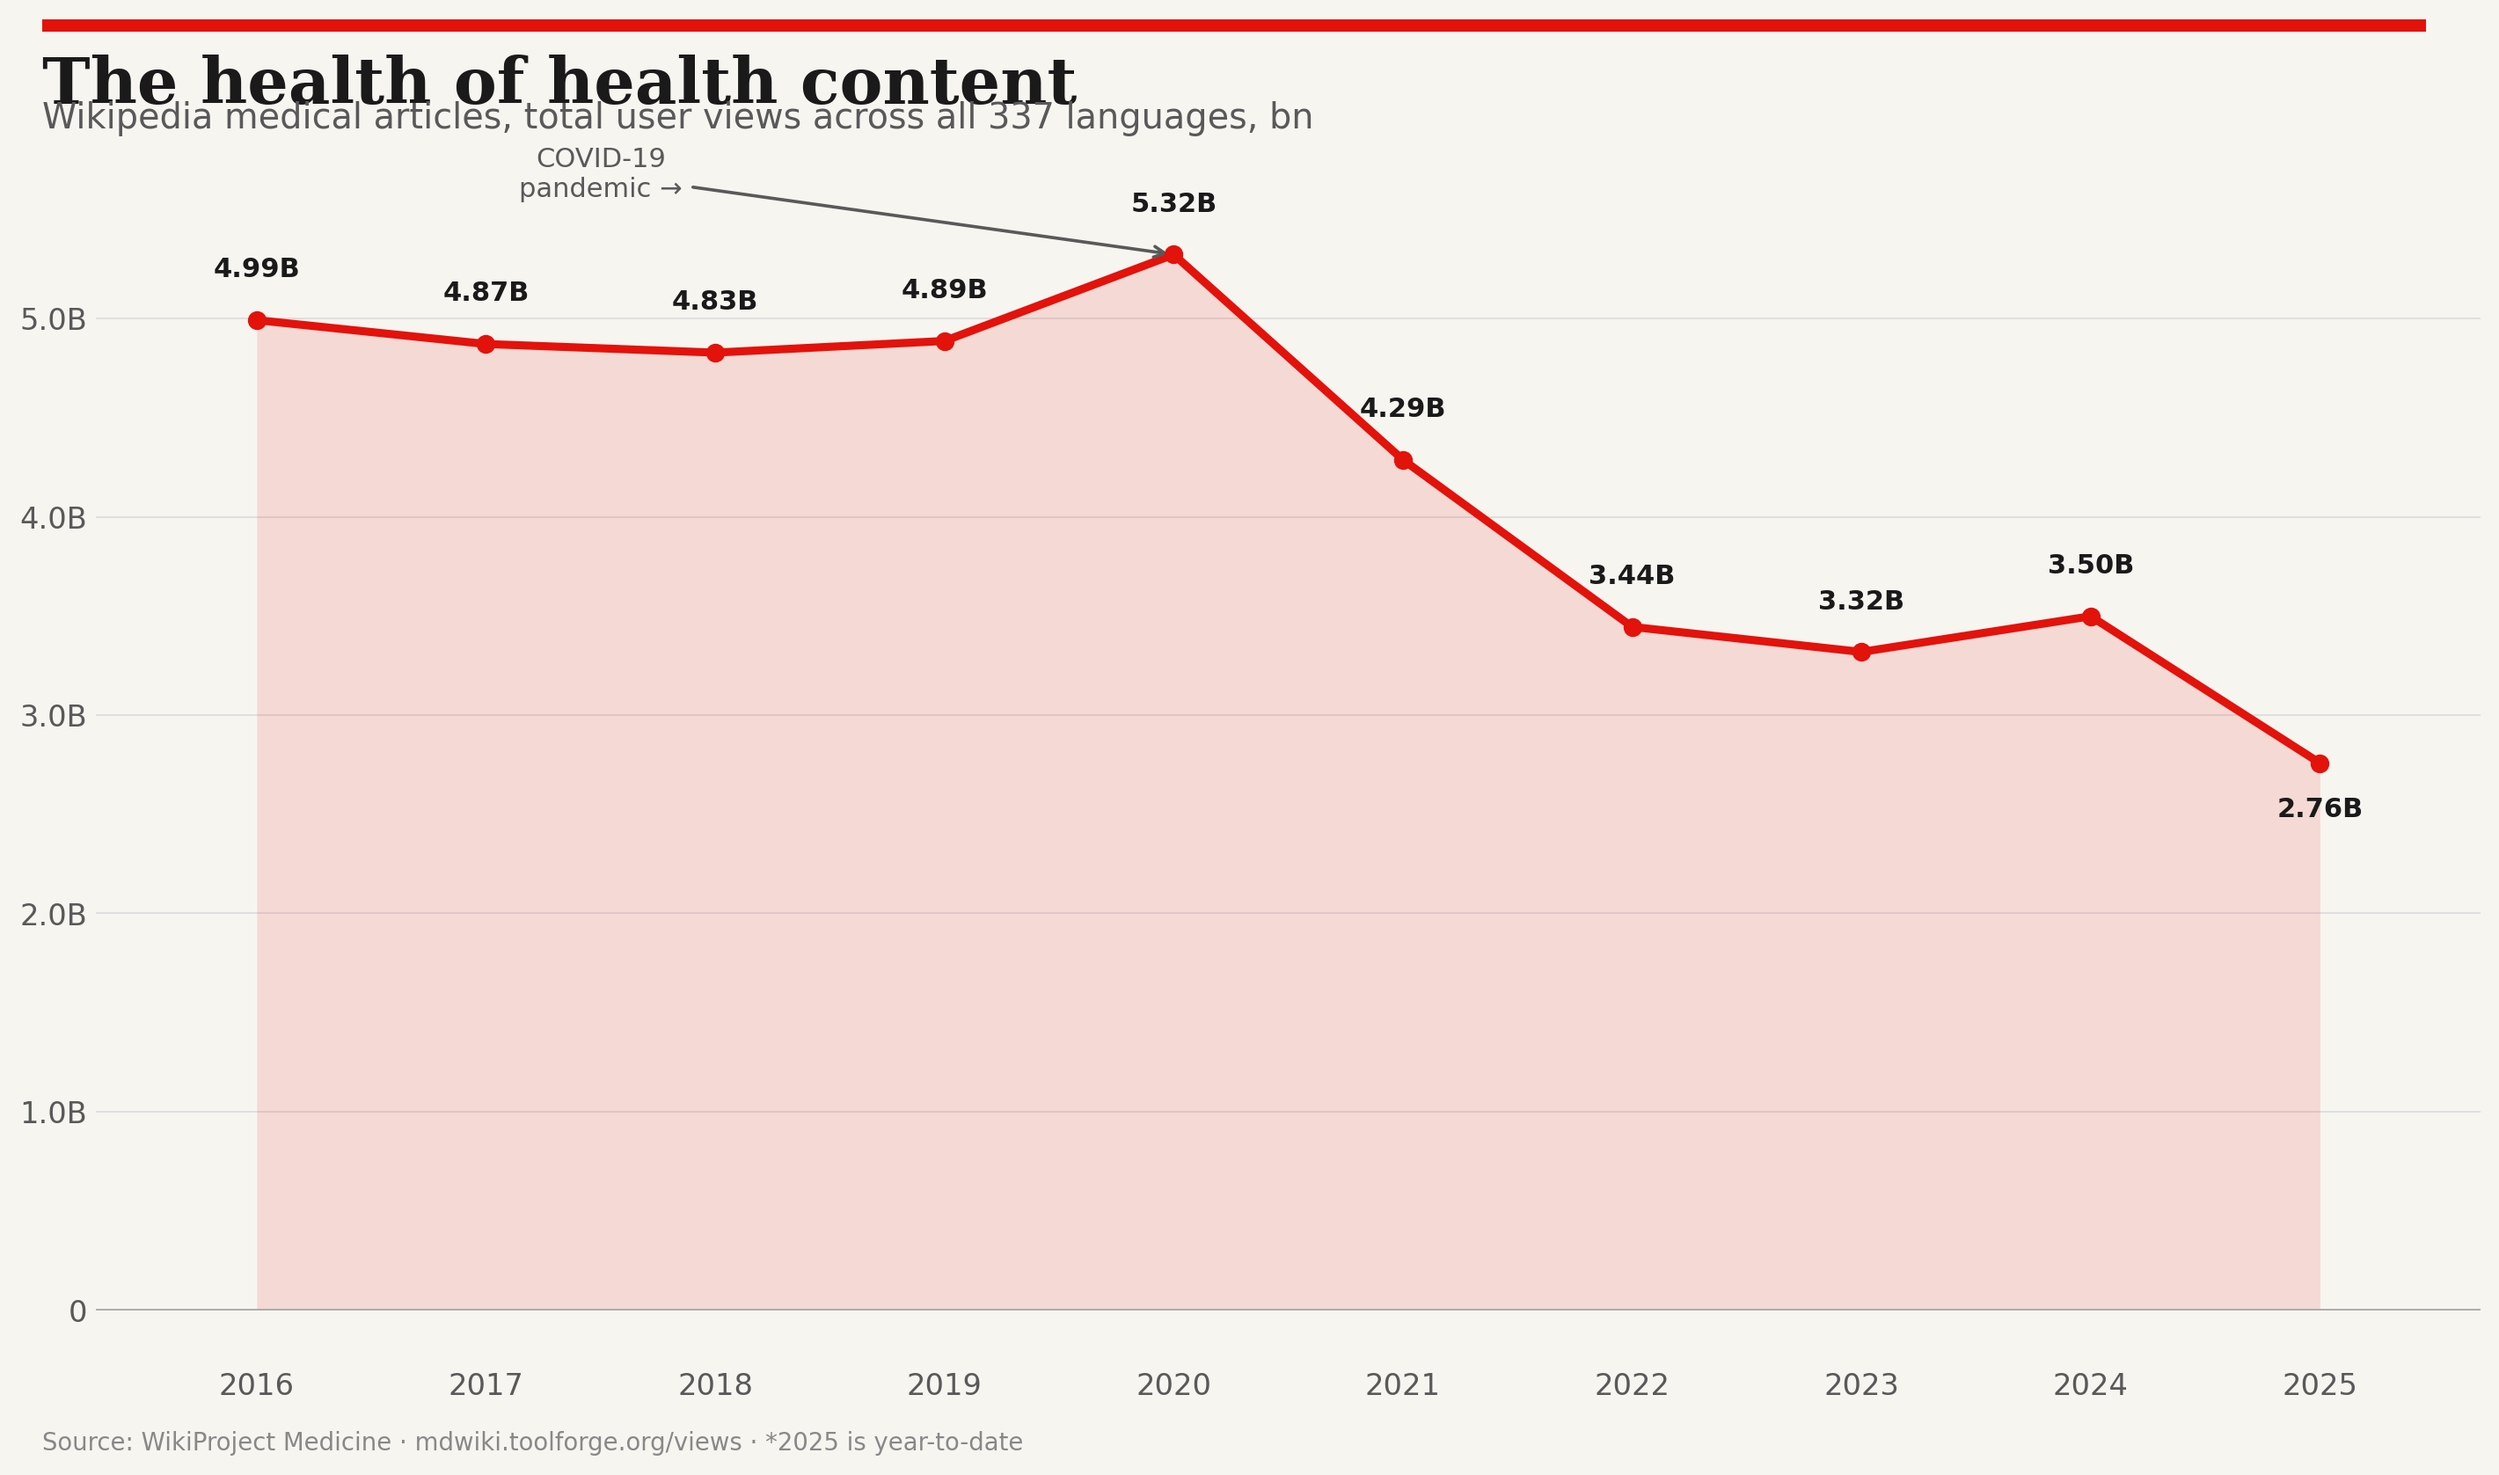
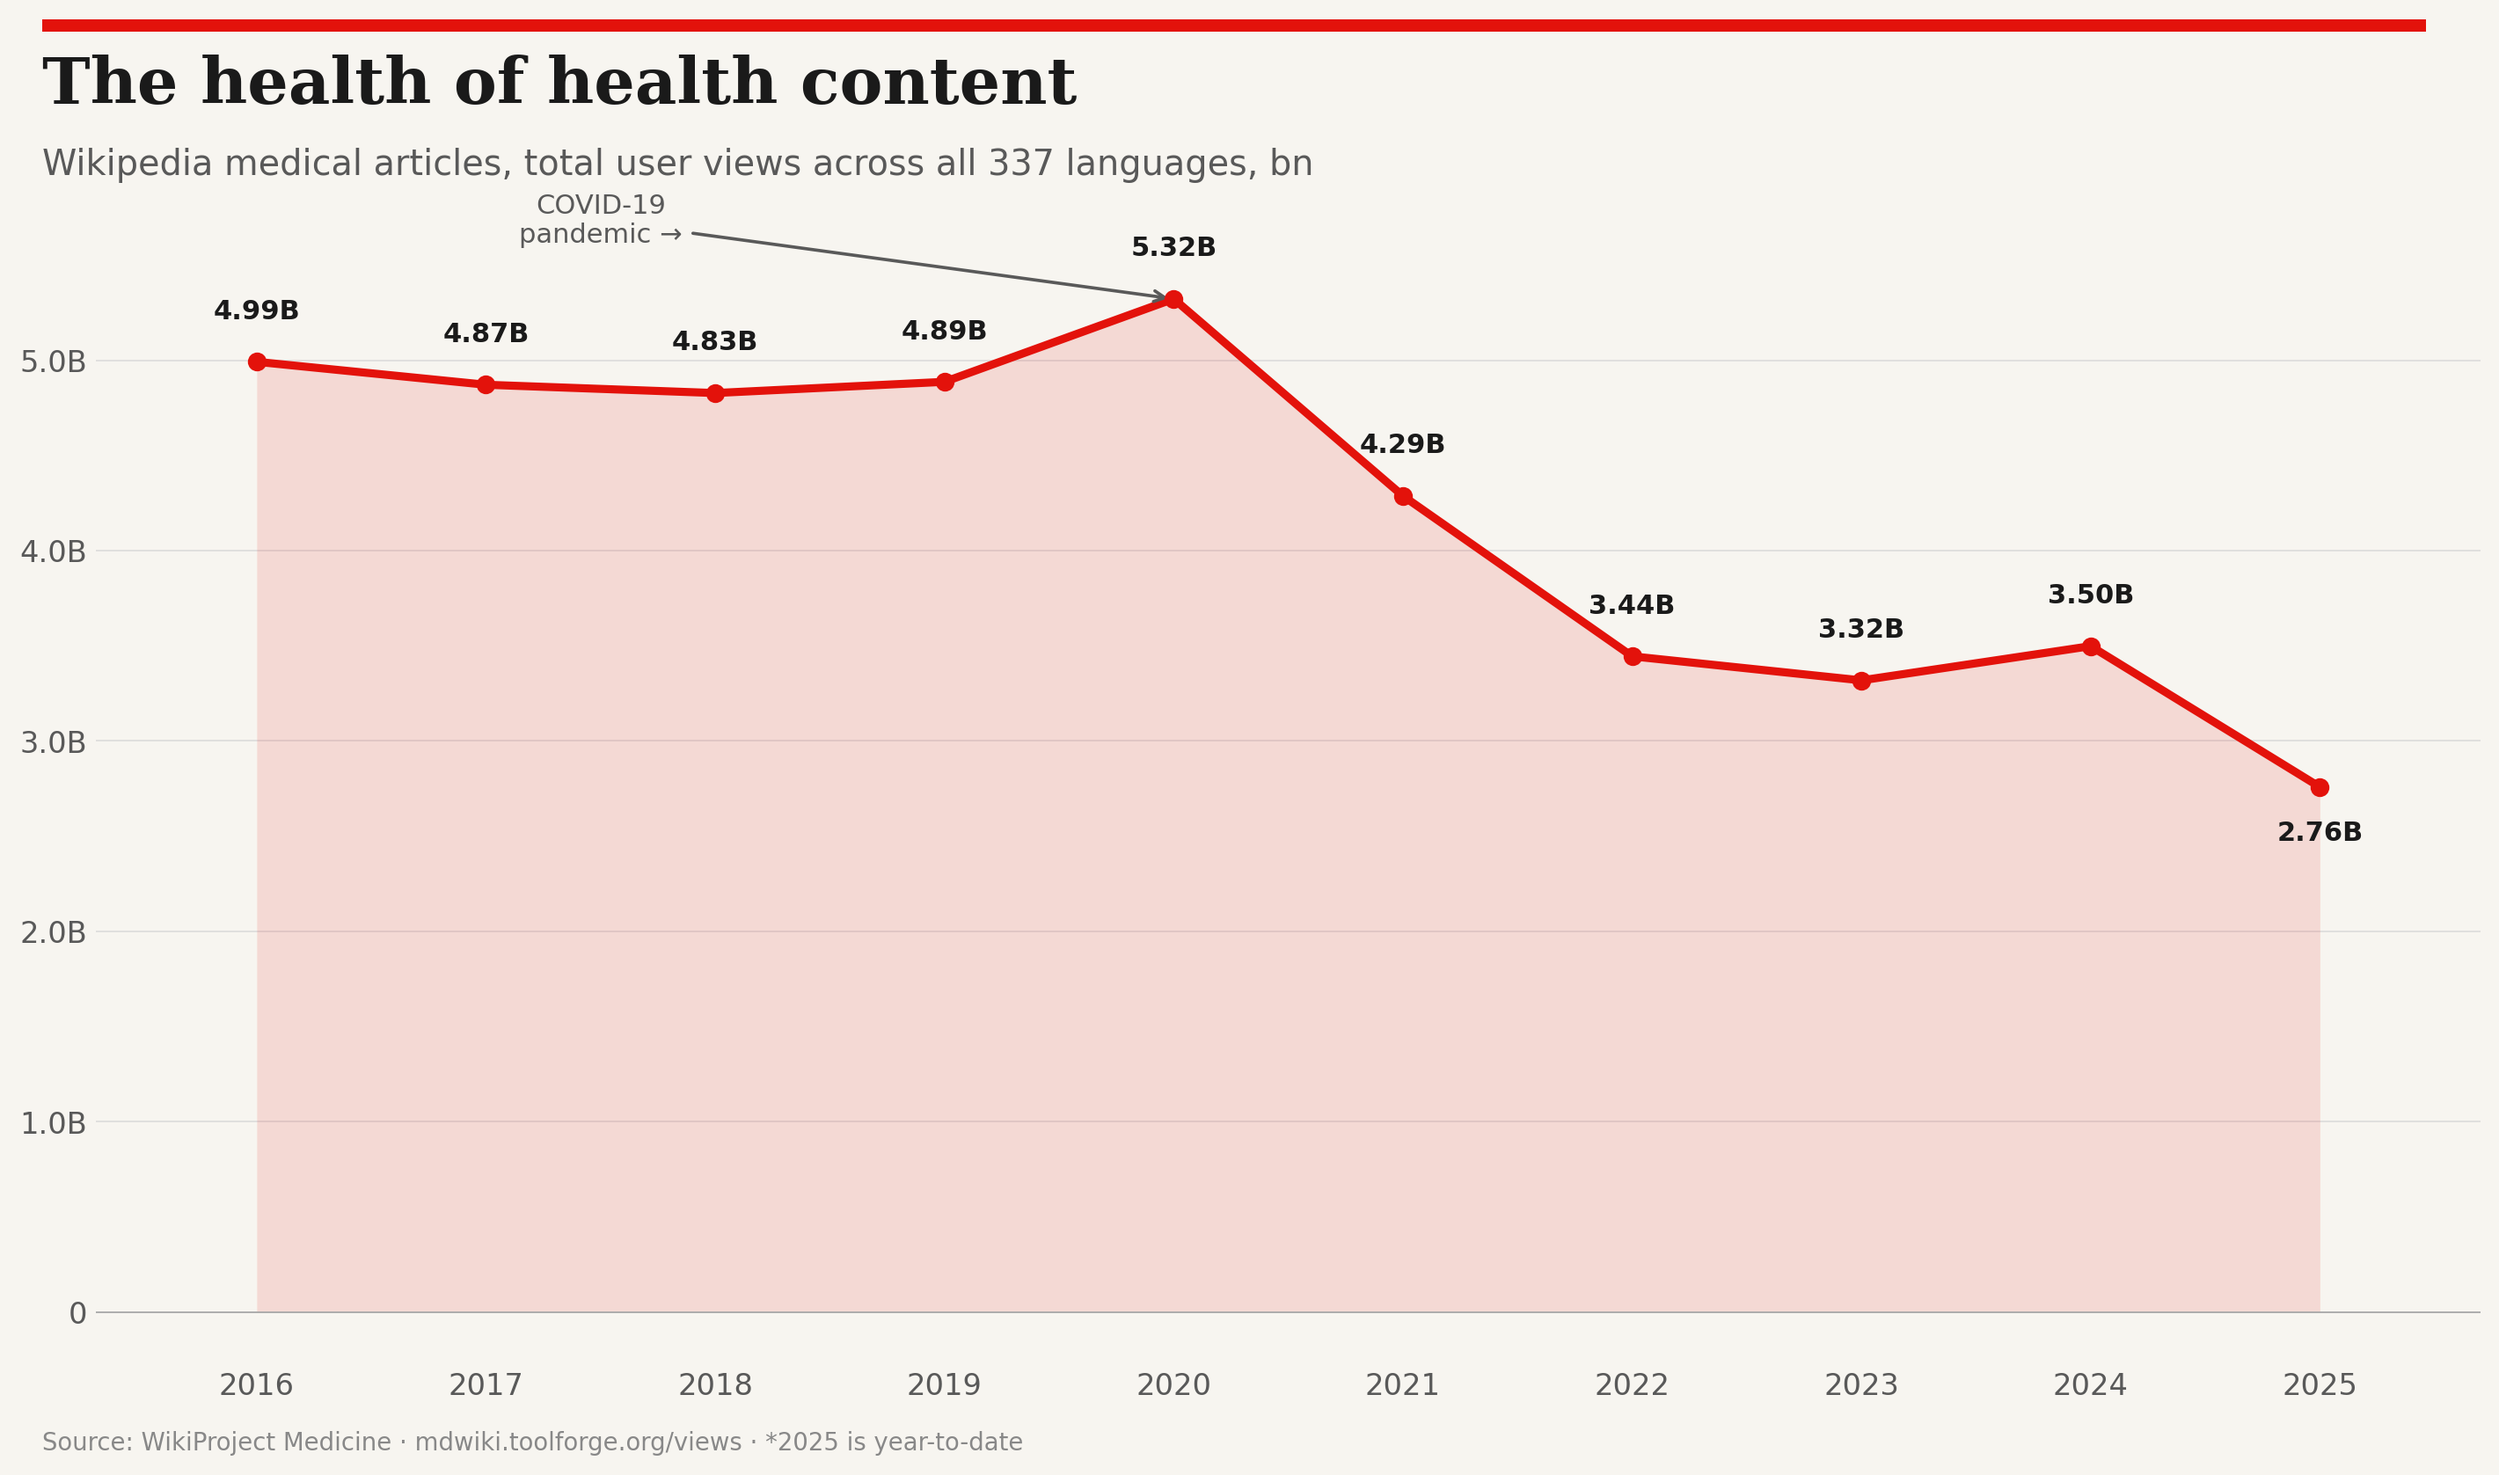
Fix subtitle spacing on global trend chart

diff --git a/scripts/econ_charts.py b/scripts/econ_charts.py
@@ -277,7 +277,7 @@ fig.patches.append(plt.Rectangle(
 
 fig.text(0.06, 0.925, 'The health of health content',
          fontsize=24, fontweight='bold', fontfamily=title_font, color=ECON_DARK, va='top')
-fig.text(0.06, 0.895, 'Wikipedia medical articles, total user views across all 337 languages, bn',
+fig.text(0.06, 0.865, 'Wikipedia medical articles, total user views across all 337 languages, bn',
          fontsize=13, color=ECON_GREY, fontfamily=body_font, va='top')
 
 # Area + line
@@ -314,7 +314,7 @@ fig.text(0.06, 0.02,
          'Source: WikiProject Medicine · mdwiki.toolforge.org/views · *2025 is year-to-date',
          fontsize=9, color='#888888', fontfamily=body_font, va='bottom')
 
-plt.subplots_adjust(top=0.83, bottom=0.08, left=0.08, right=0.96)
+plt.subplots_adjust(top=0.80, bottom=0.08, left=0.08, right=0.96)
 plt.savefig('../charts/econ_global_trend.png', dpi=220, bbox_inches='tight',
             facecolor=ECON_BG, edgecolor='none')
 plt.close()
